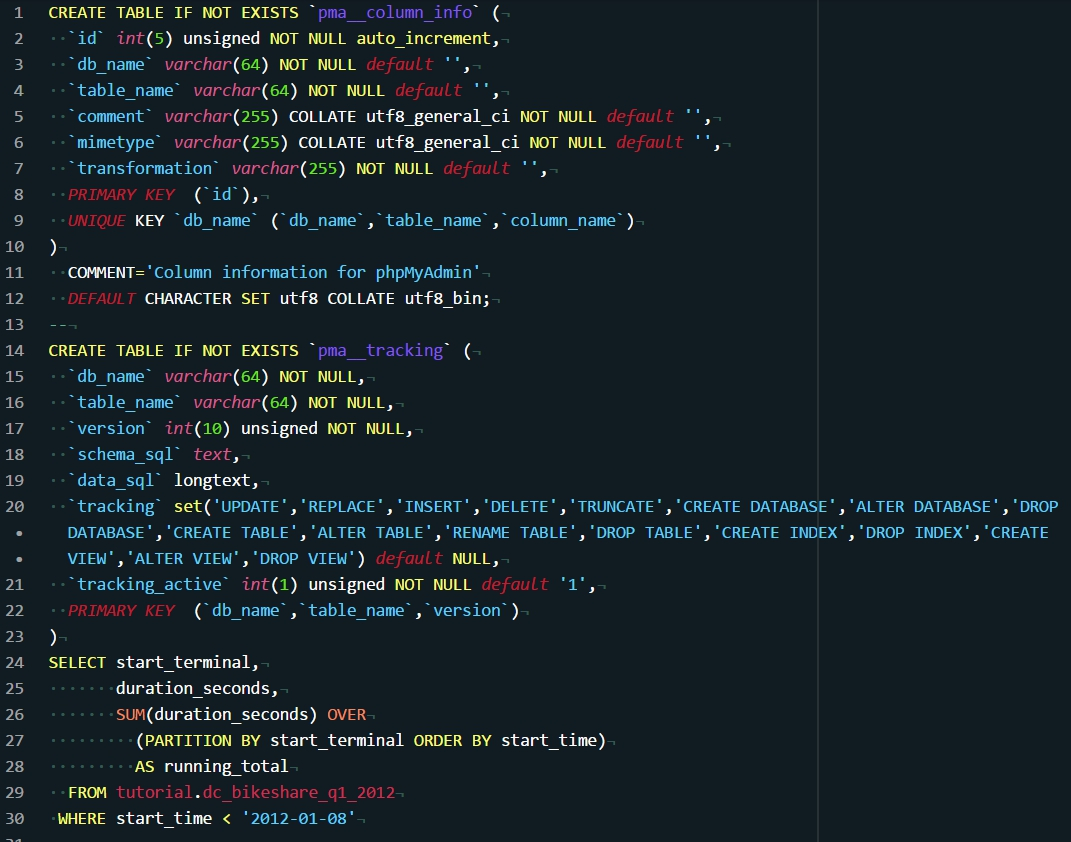
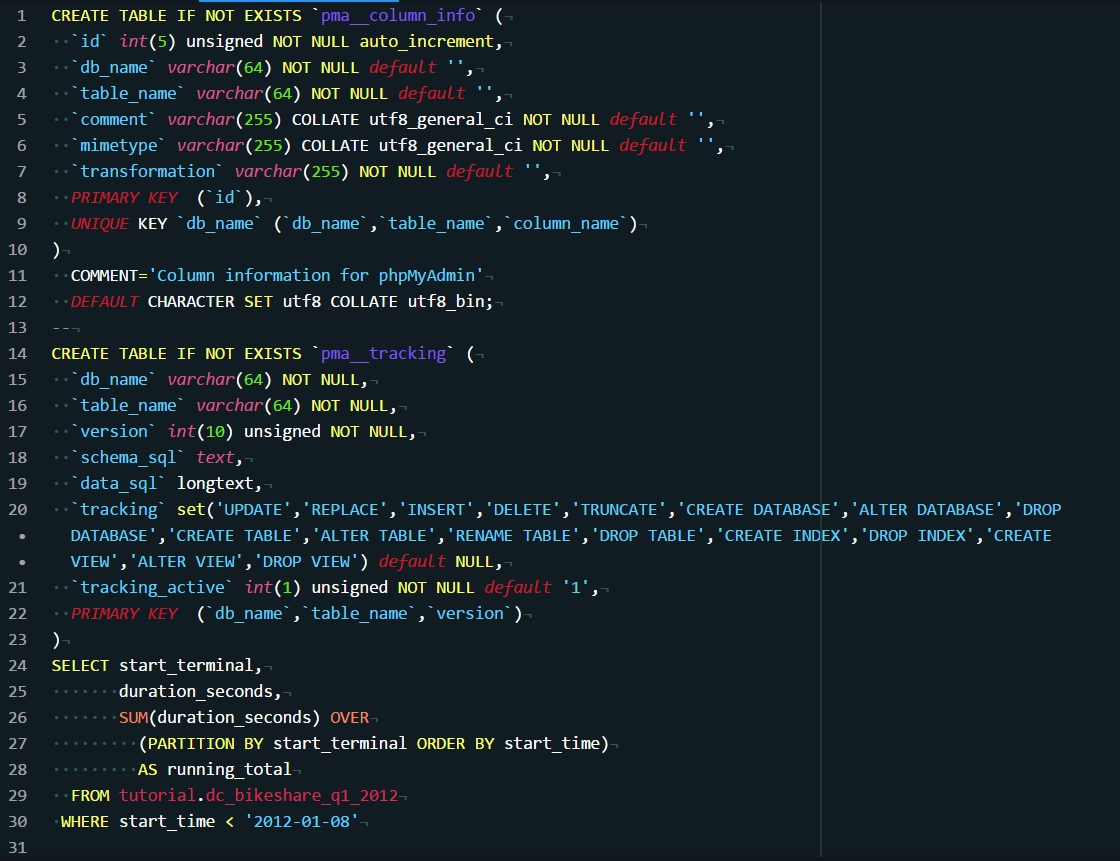
Upgrade to Version 1.3.0

diff --git a/README.md b/README.md
@@ -1,21 +1,19 @@
 # Inter Dimensional Syntax Theme for Atom
 
 
-<!-- @import "[TOC]" {cmd="toc" depthFrom=2 depthTo=6 orderedList=false} -->
+<!-- @import "[TOC]" {cmd="toc" depthFrom=2 depthTo=2 orderedList=false} -->
 <!-- code_chunk_output -->
 
 * [Languages](#languages)
 * [To Do](#to-do)
 * [Changelog](#changelog)
-	* [Version 1.0.1](#version-101)
-	* [Version 1.0.0](#version-100)
 
 <!-- /code_chunk_output -->
 
 
 A syntax theme for [Atom](https://atom.io/) with colors from Rick and Morty on a dark barkground. The code is mostly based on the [Dracula](https://atom.io/themes/dracula-syntax) for Atom syntax theme. The colors have been curated from the animated TV show Rick and Morty with.
 
-![bash](screenshots/bash.jpg)
+![demo](screenshots/demo.gif)
 
 ## Languages
 Because the code base is [Dracula](https://atom.io/themes/dracula-syntax), which is possibly the best coded themes that I have found so far, many languages work great. The following languages have been tested and optimized for experience, click of the language for a screenshot of the syntax in action:
@@ -38,7 +36,11 @@ Because the code base is [Dracula](https://atom.io/themes/dracula-syntax), which
   * If you have one, please change the colors first and provide a screenshot of the adjustment [here](https://github.com/tommybonobo/inter-dimensional-syntax/issues).
 
 ## Changelog
-### Version 1.0.1
+### Version 1.3.0
+* Updated screenshots
+### Version 1.2.0
+* Correction to apm publish
+### Version 1.1.0
 * Changes to `colors.less`
   * `@foreground` changed to `@rick-lab-coat`
 * Changes to `syntax-variables.less`
